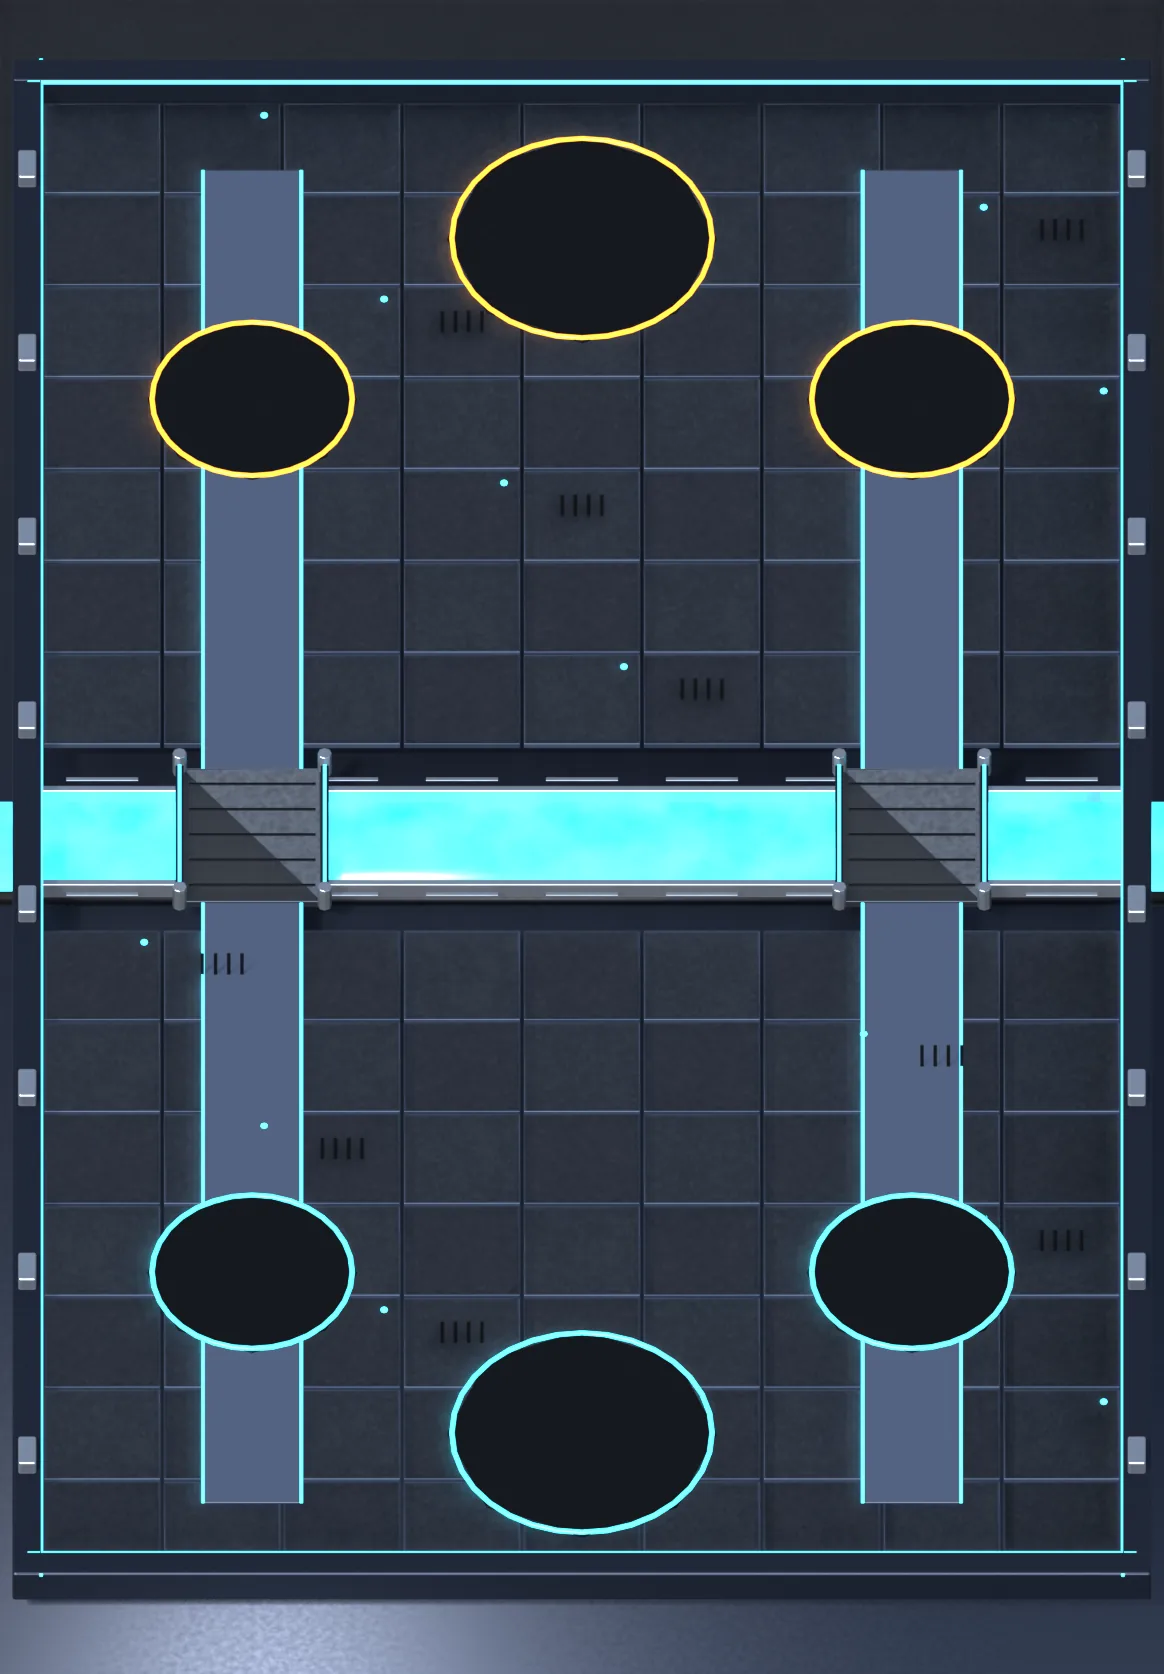
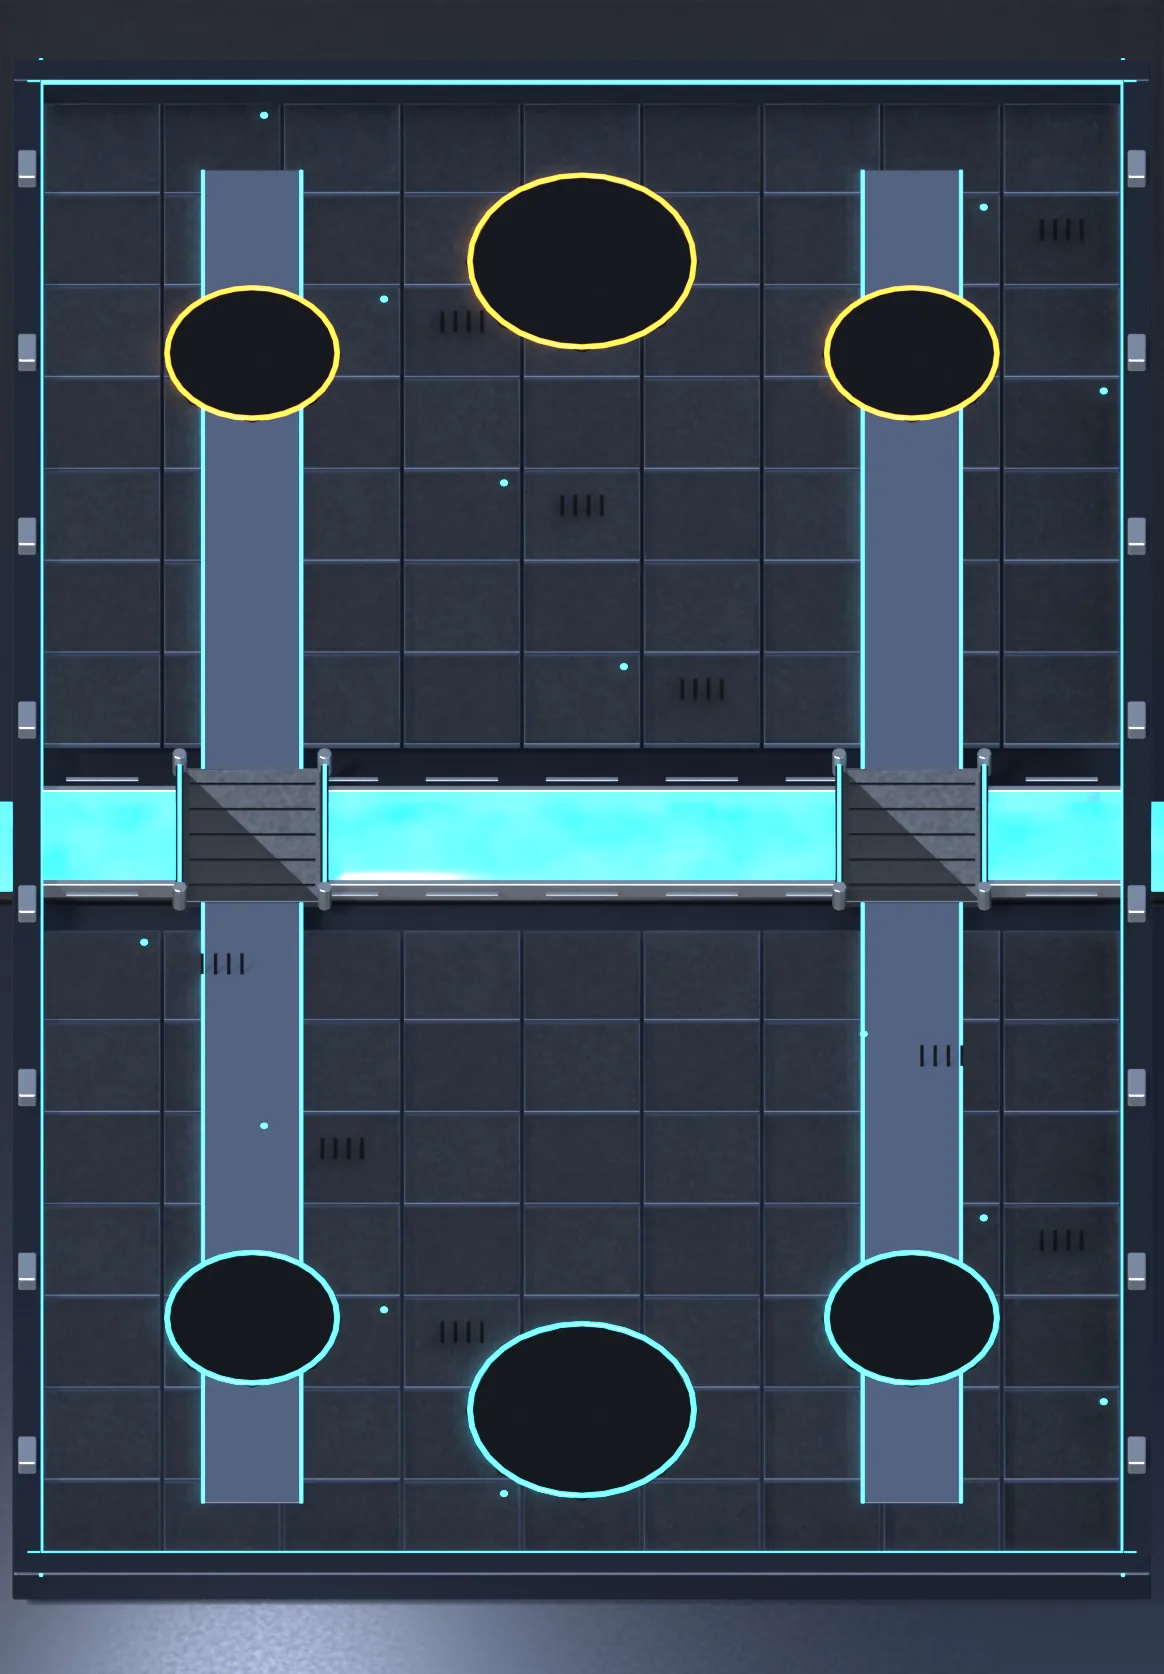
Build fd83f7786d12

diff --git a/js/battle.js b/js/battle.js
@@ -96,9 +96,9 @@
     };
     for (const tm of [0, 1]) {
       const fy = y => tm ? H - y : y;
-      G.ents.push(mkTower(tm, 'guard', 3.5, fy(25.5), 0, tm ? cmdAi : cmdMe));
-      G.ents.push(mkTower(tm, 'guard', 14.5, fy(25.5), 1, tm ? cmdAi : cmdMe));
-      G.ents.push(mkTower(tm, 'king', 9, fy(29), -1, tm ? cmdAi : cmdMe));
+      G.ents.push(mkTower(tm, 'guard', 3.5, fy(26.5), 0, tm ? cmdAi : cmdMe));
+      G.ents.push(mkTower(tm, 'guard', 14.5, fy(26.5), 1, tm ? cmdAi : cmdMe));
+      G.ents.push(mkTower(tm, 'king', 9, fy(28.5), -1, tm ? cmdAi : cmdMe));
     }
     renderHand(); layout(); buildBg();
     B.running = true; last = performance.now(); acc = 0;
@@ -225,7 +225,7 @@
     } else if (G.overtime && G.time <= 0) return end();
     const mult = G.overtime ? 3 : G.time <= CB.DOUBLE_AT ? 2 : 1;
     if (!G.overtime && G.time <= CB.DOUBLE_AT && G.time + dt > CB.DOUBLE_AT) say('Double energy!', 1.8, '#d9a0ff');
-    for (const tm of [0, 1]) G.energy[tm] = Math.min(CB.ENERGY_MAX, G.energy[tm] + CB.ENERGY_RATE * mult * dt);
+    for (const tm of [0, 1]) G.energy[tm] = Math.min(CB.ENERGY_MAX, G.energy[tm] + CB.ENERGY_RATE * mult * dt * (tm ? (G.opt.enemy.emul || 1) : 1));
 
     for (const u of G.ents) if (u.alive) think(u, dt);
     separate(dt);
@@ -524,9 +524,9 @@
       ai: { think: 1.5, lvl: opt.enemy.skill }, ai0: { think: 1.5, lvl: opt.skill }, arena: 0, sim: true };
     for (const tm of [0, 1]) {
       const fy = y => tm ? H - y : y;
-      G.ents.push(mkTower(tm, 'guard', 3.5, fy(25.5), 0, tm ? opt.enemy.cmd : opt.cmd));
-      G.ents.push(mkTower(tm, 'guard', 14.5, fy(25.5), 1, tm ? opt.enemy.cmd : opt.cmd));
-      G.ents.push(mkTower(tm, 'king', 9, fy(29), -1, tm ? opt.enemy.cmd : opt.cmd));
+      G.ents.push(mkTower(tm, 'guard', 3.5, fy(26.5), 0, tm ? opt.enemy.cmd : opt.cmd));
+      G.ents.push(mkTower(tm, 'guard', 14.5, fy(26.5), 1, tm ? opt.enemy.cmd : opt.cmd));
+      G.ents.push(mkTower(tm, 'king', 9, fy(28.5), -1, tm ? opt.enemy.cmd : opt.cmd));
     }
     let res = null; opt.onEnd = r => { res = r; };
     let n = 0;
@@ -624,7 +624,7 @@
     for (let i = 0; i < 6; i++) { const x = ((G.t * 1.3 + i * 3.3) % (W + 2)) - 1; c.fillRect(sx(x), sy(MIDY) - 1, T * 1.4, 2); }
     c.globalAlpha = 1;
     drawPlacement(c);
-    for (const d of G.decals) B.drawSprite(c, d.sub === 'king' ? 'kingx' : 'guardx', TEAM[d.team], 'i0', 0, sx(d.x), sy(d.y), T);
+    for (const d of G.decals) B.drawSprite(c, d.sub === 'king' ? 'kingx' : 'guardx', TEAM[d.team], 'i0', 0, sx(d.x), sy(d.y), T * 0.85);
     // shadows
     for (const e of G.ents) if (e.alive && e.kind !== 'tower') { c.fillStyle = 'rgba(0,0,0,.35)'; c.beginPath(); c.ellipse(sx(e.x), sy(e.y), e.r * T * 1.05, e.r * T * 0.62, 0, 0, 7); c.fill(); }
     // spells in flight
@@ -644,7 +644,7 @@
     if (e.kind === 'tower') {
       let lab = e.fireT < 0.12 ? 'a0' : e.fireT < 0.24 ? 'a1' : 'i0';
       const team = TEAM[e.team];
-      if (!B.drawSprite(c, e.sub, team, lab, e.face, x, y, T)) fallback(c, e, x, y);
+      if (!B.drawSprite(c, e.sub, team, lab, e.face, x, y, T * 0.85)) fallback(c, e, x, y);
       if (e.sub === 'king' && !e.active) { c.fillStyle = 'rgba(255,255,255,.8)'; c.font = `bold ${T * 0.6}px system-ui`; c.textAlign = 'center'; c.fillText('z', x + T * 1.4, y - T * 2.4 - Math.sin(G.t * 2) * 3); }
       if (e.flash > 0) { c.globalAlpha = e.flash * 3; c.fillStyle = '#fff'; c.beginPath(); c.ellipse(x, y - T * 1.5, e.r * T, e.r * T * 1.2, 0, 0, 7); c.fill(); c.globalAlpha = 1; }
       return;
@@ -683,7 +683,7 @@
   function drawBar(c, e) {
     if (e.kind === 'tower') {
       if (!e.alive) return;
-      const w = T * (e.sub === 'king' ? 3 : 2.4), x = sx(e.x) - w / 2, y = sy(e.y) - T * (e.sub === 'king' ? 5.0 : 4.0);
+      const w = T * (e.sub === 'king' ? 3 : 2.4), x = sx(e.x) - w / 2, y = sy(e.y) - T * (e.sub === 'king' ? 4.4 : 3.5);
       c.fillStyle = 'rgba(0,0,0,.6)'; rr(c, x - 2, y - 2, w + 4, T * 0.42 + 4, 4); c.fill();
       c.fillStyle = e.team ? '#e5483a' : '#3aa0ff'; rr(c, x, y, w * Math.max(0, e.hp / e.maxHp), T * 0.42, 3); c.fill();
       c.fillStyle = '#fff'; c.font = `bold ${Math.max(9, T * 0.36)}px system-ui`; c.textAlign = 'center'; c.textBaseline = 'middle';

diff --git a/sw.js b/sw.js
@@ -1,5 +1,5 @@
 // Core Breakers offline helper. VERSION changes with every build so updates arrive on their own.
-const VERSION = 'cb-0c302c3a3e68';
+const VERSION = 'cb-fd83f7786d12';
 const CORE = ["art/arena_0.webp","art/arena_1.webp","art/arena_2.webp","art/arena_3.webp","art/arena_4.webp","art/blaster_blue.webp","art/blaster_red.webp","art/colossus_blue.webp","art/colossus_red.webp","art/guard_blue.webp","art/guard_red.webp","art/guardx_blue.webp","art/guardx_red.webp","art/hound_blue.webp","art/hound_red.webp","art/jet_blue.webp","art/jet_red.webp","art/king_blue.webp","art/king_red.webp","art/kingx_blue.webp","art/kingx_red.webp","art/medic_blue.webp","art/medic_red.webp","art/rocket_blue.webp","art/rocket_red.webp","art/sentinel_blue.webp","art/sentinel_red.webp","art/spider_blue.webp","art/spider_red.webp","art/titan_blue.webp","art/titan_red.webp","art/turret_blue.webp","art/turret_red.webp","icon-180.png","icon-512.png","index.html","js/battle.js","js/boot.js","js/data.js","js/progress.js","js/sheets.js","js/ui.js","manifest.webmanifest","style.css","./"];
 self.addEventListener('install', e => { e.waitUntil(caches.open(VERSION).then(c => c.addAll(CORE)).then(() => self.skipWaiting())); });
 self.addEventListener('activate', e => {

diff --git a/js/ui.js b/js/ui.js
@@ -259,7 +259,7 @@
     UI.show('battle');
     CB.B.start({
       deck: s.deck.slice(), levels: myLv, cmd: s.cmd, arena: a,
-      enemy: { deck: [...pick], levels: aiLv, cmd: Math.max(1, s.cmd + (Math.random() < 0.3 ? -1 : 0)), skill: Math.min(1, 0.35 + a * 0.15 + inArena * 0.1) },
+      enemy: { deck: [...pick], levels: aiLv, cmd: Math.max(1, s.cmd + (Math.random() < 0.3 ? -1 : 0)), skill: Math.min(1, 0.35 + a * 0.15 + inArena * 0.1), emul: s.trophies < 150 ? 0.8 : s.trophies < 300 ? 0.9 : 1 },
       onEnd: res => { CB.B.stop(); results(res, name); },
     });
   };
